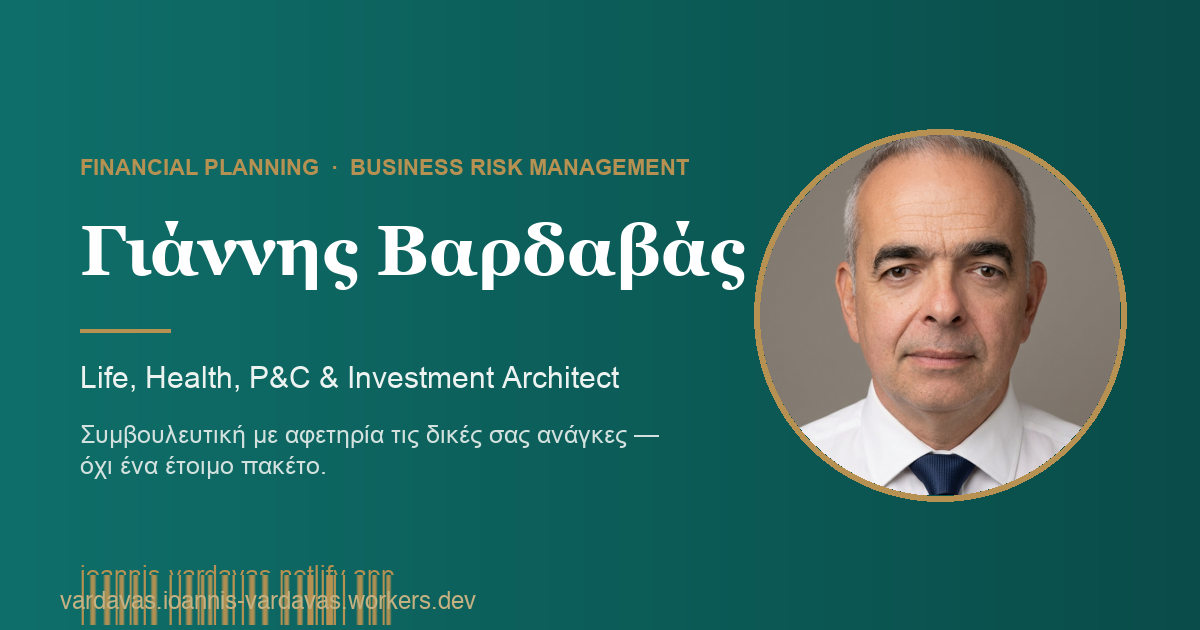
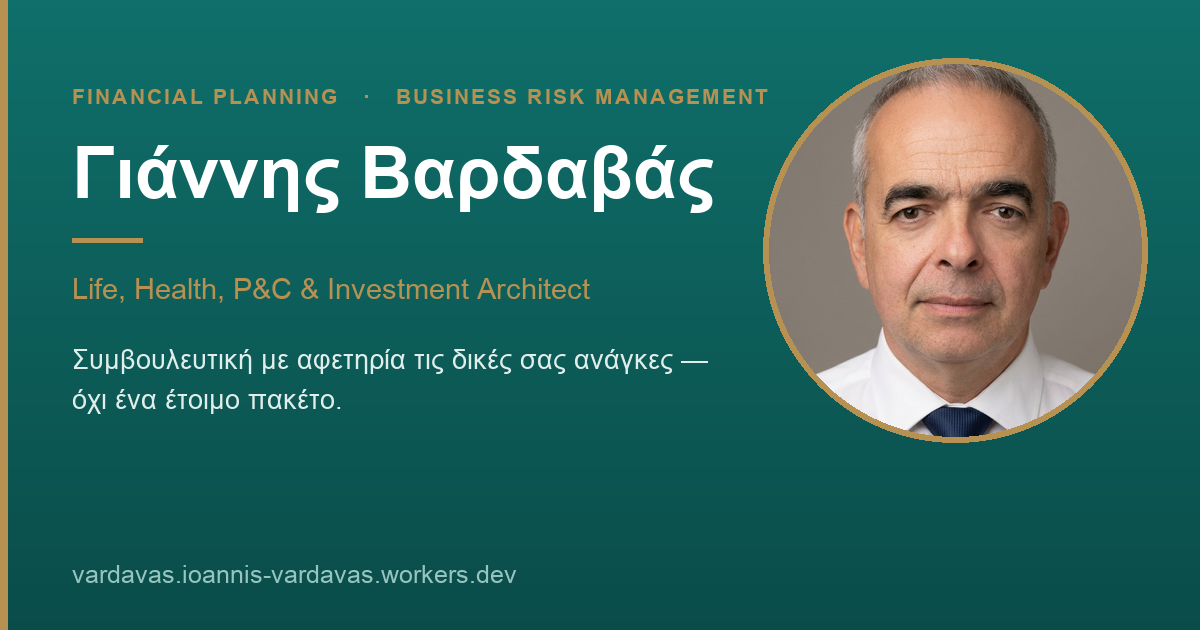
og-image: clean rebuild (build_og.py) — αφαίρεση αλλοιωμένης γραμμής glyphs, καθαρό URL + φωτο σε κύκλο

diff --git a/build_og.py b/build_og.py
@@ -1,0 +1,103 @@
+"""Regenerates og-image.png (social share / Viber-WhatsApp preview card).
+Clean rebuild — fixes the garbled glyph line that the lost original produced.
+Run:  python3 build_og.py   (outputs og-image.png in root + deploy/)
+"""
+from PIL import Image, ImageDraw, ImageFont
+
+W, H = 1200, 630
+PETROL      = (15, 111, 106)
+PETROL_DEEP = (10, 76, 73)
+GOLD        = (182, 145, 82)
+WHITE       = (255, 255, 255)
+SOFT        = (224, 238, 235)
+
+ARIAL   = '/System/Library/Fonts/Supplemental/Arial.ttf'
+ARIALBD = '/System/Library/Fonts/Supplemental/Arial Bold.ttf'
+
+# --- background: vertical petrol gradient ---
+img = Image.new('RGB', (W, H), PETROL)
+px = img.load()
+for y in range(H):
+    t = y / (H - 1)
+    r = round(PETROL[0] + (PETROL_DEEP[0] - PETROL[0]) * t)
+    g = round(PETROL[1] + (PETROL_DEEP[1] - PETROL[1]) * t)
+    b = round(PETROL[2] + (PETROL_DEEP[2] - PETROL[2]) * t)
+    for x in range(W):
+        px[x, y] = (r, g, b)
+
+draw = ImageDraw.Draw(img)
+
+# left gold accent bar
+draw.rectangle([0, 0, 7, H], fill=GOLD)
+
+X0 = 72
+CIRCLE_CX, CIRCLE_CY, R = 955, 250, 192
+text_limit = CIRCLE_CX - R - 40  # don't collide with photo
+
+
+def tracked(draw, xy, s, font, fill, tr):
+    x, y = xy
+    for ch in s:
+        draw.text((x, y), ch, font=font, fill=fill)
+        bb = draw.textbbox((0, 0), ch, font=font)
+        x += (bb[2] - bb[0]) + tr
+    return x
+
+
+def tracked_width(draw, s, font, tr):
+    w = 0
+    for ch in s:
+        bb = draw.textbbox((0, 0), ch, font=font)
+        w += (bb[2] - bb[0]) + tr
+    return w - tr if s else 0
+
+# --- eyebrow ---
+eyebrow = 'FINANCIAL PLANNING   ·   BUSINESS RISK MANAGEMENT'
+ef = ImageFont.truetype(ARIALBD, 21)
+tracked(draw, (X0, 84), eyebrow, ef, GOLD, 2)
+
+# --- name (auto-fit so it never reaches the photo) ---
+name = 'Γιάννης Βαρδαβάς'
+nsize = 78
+while nsize > 40:
+    nf = ImageFont.truetype(ARIALBD, nsize)
+    if draw.textlength(name, font=nf) <= (text_limit - X0):
+        break
+    nsize -= 2
+nf = ImageFont.truetype(ARIALBD, nsize)
+draw.text((X0, 132), name, font=nf, fill=WHITE)
+
+# gold underline under the name
+draw.rectangle([X0, 238, X0 + 70, 242], fill=GOLD)
+
+# --- role ---
+rf = ImageFont.truetype(ARIAL, 29)
+draw.text((X0, 272), 'Life, Health, P&C & Investment Architect', font=rf, fill=GOLD)
+
+# --- subtitle (two lines) ---
+sf = ImageFont.truetype(ARIAL, 27)
+draw.text((X0, 344), 'Συμβουλευτική με αφετηρία τις δικές σας ανάγκες —', font=sf, fill=SOFT)
+draw.text((X0, 384), 'όχι ένα έτοιμο πακέτο.', font=sf, fill=SOFT)
+
+# --- url (single clean line, bottom) ---
+uf = ImageFont.truetype(ARIAL, 25)
+draw.text((X0, 560), 'vardavas.ioannis-vardavas.workers.dev', font=uf, fill=(150, 196, 190))
+
+# --- circular photo with gold ring ---
+photo = Image.open('My pro pic.png').convert('RGB')
+pw, ph = photo.size
+side = pw                      # full width square
+top = 70                       # bias toward the head
+crop = photo.crop((0, top, side, top + side))
+D = R * 2
+crop = crop.resize((D, D), Image.LANCZOS)
+mask = Image.new('L', (D, D), 0)
+ImageDraw.Draw(mask).ellipse([0, 0, D, D], fill=255)
+img.paste(crop, (CIRCLE_CX - R, CIRCLE_CY - R), mask)
+# gold ring
+draw.ellipse([CIRCLE_CX - R, CIRCLE_CY - R, CIRCLE_CX + R, CIRCLE_CY + R],
+             outline=GOLD, width=6)
+
+img.save('og-image.png')
+img.save('deploy/og-image.png')
+print('OK  name size', nsize)
